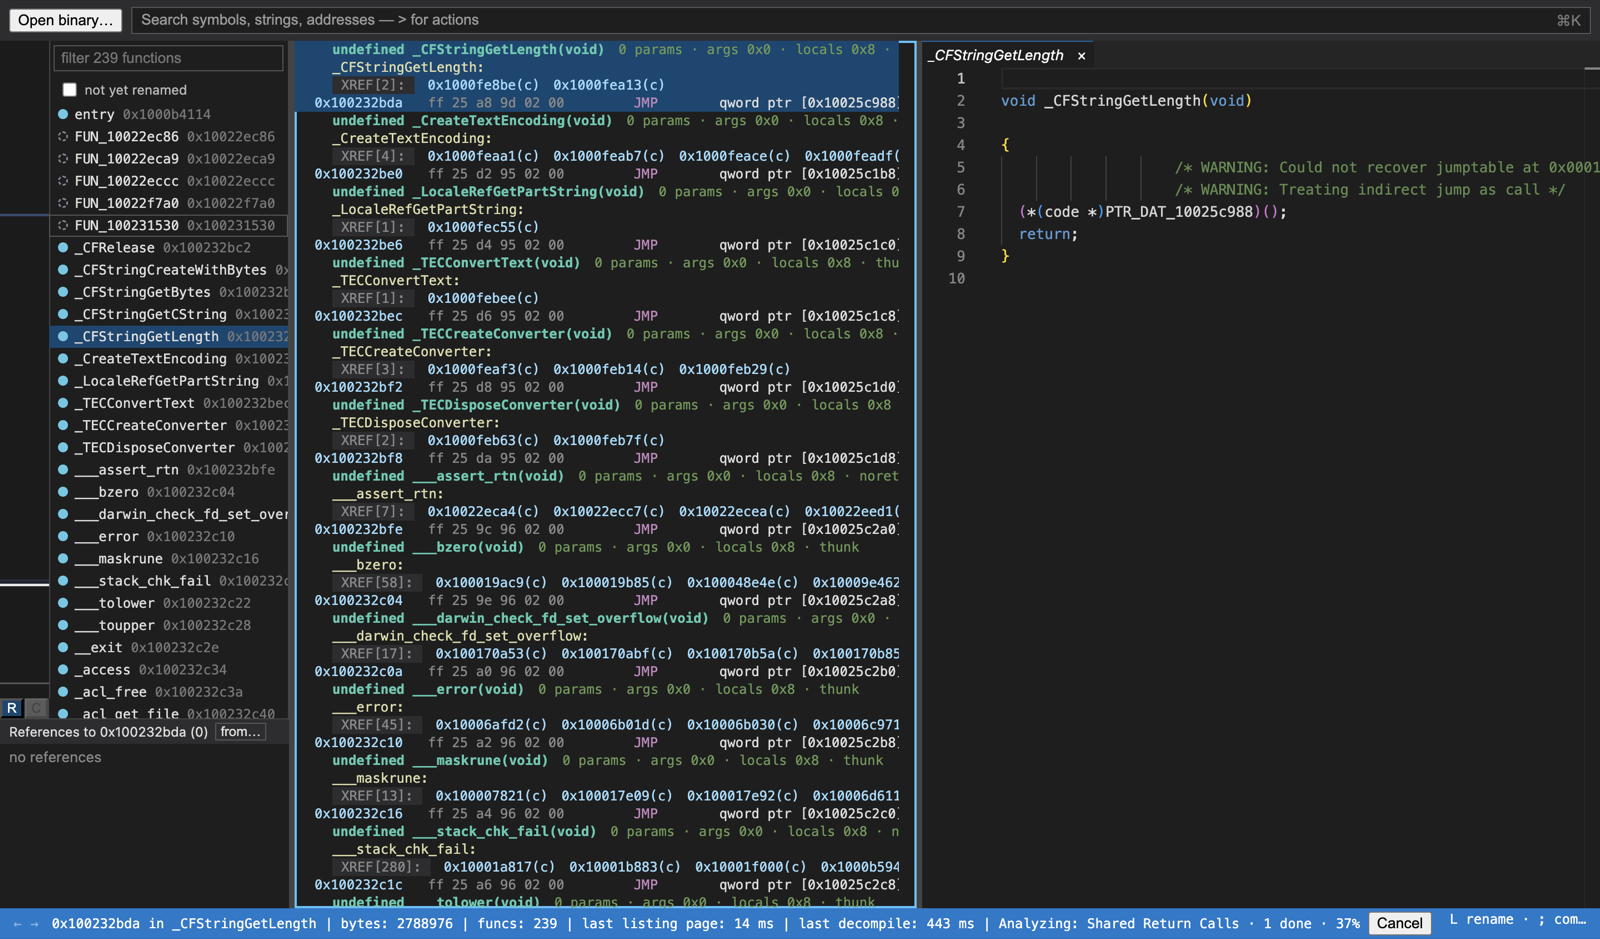
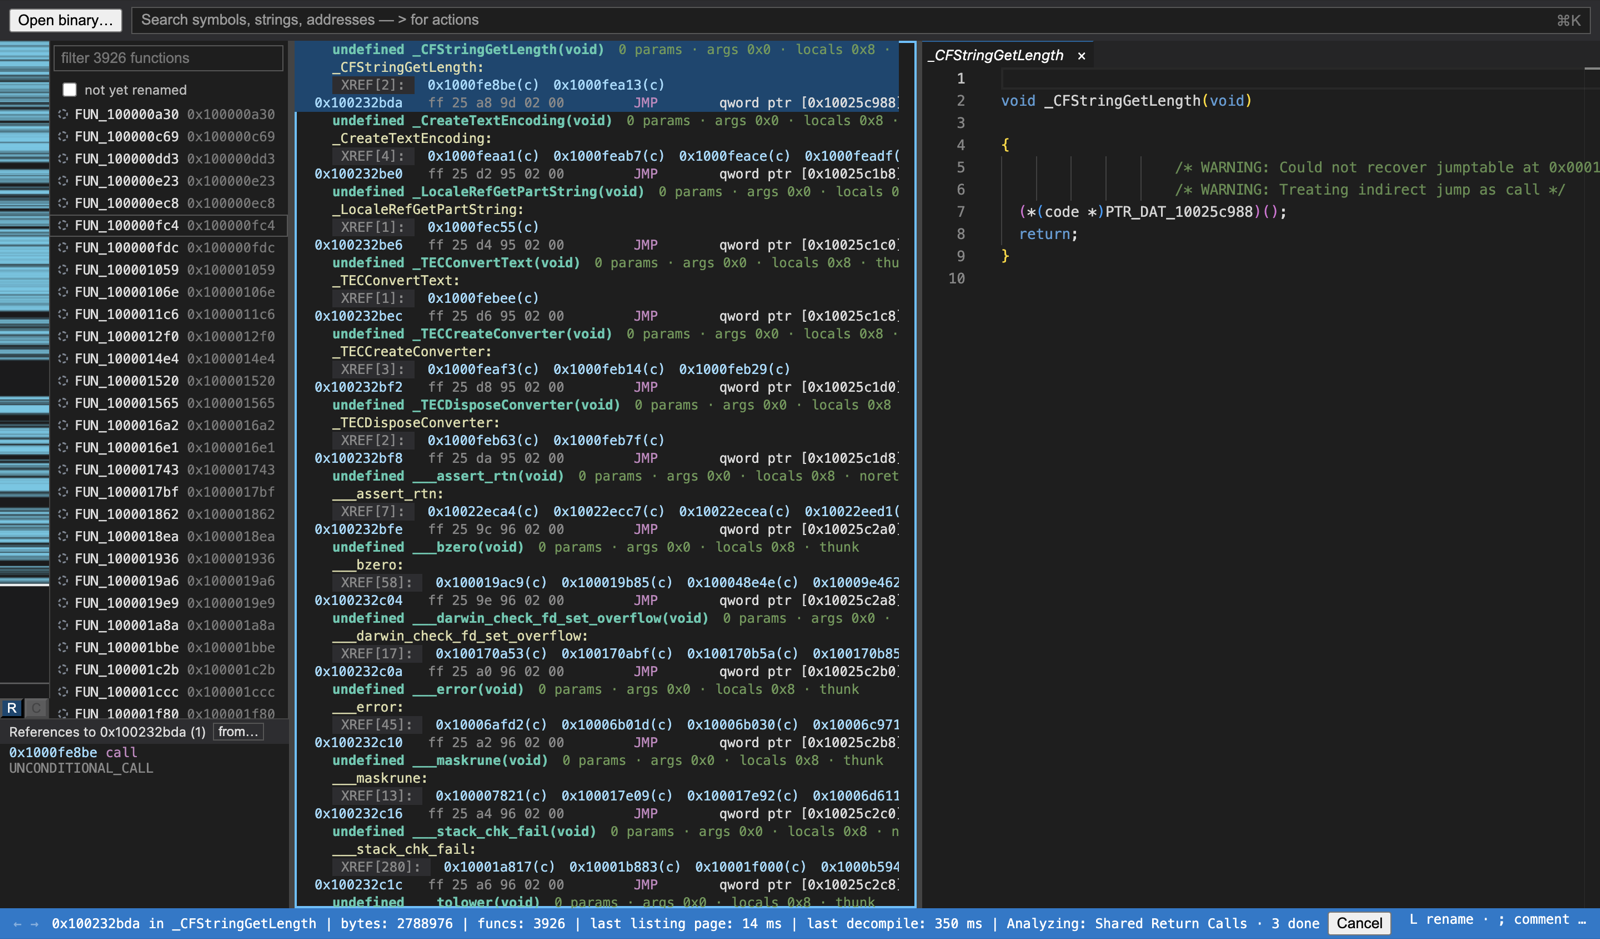
Retake all screenshots with the library-blue binary map; README and manual test mention it

Changed region(s): [[0.0, 0.0309, 0.1875, 0.8339], [0.3438, 0.9574, 1.0, 1.0], [0.125, 0.7721, 0.1562, 0.803]]

diff --git a/app/src/renderer/BinaryMap.tsx b/app/src/renderer/BinaryMap.tsx
@@ -44,7 +44,7 @@ export function BinaryMap({ map, funcs, here, covVersion, onGo }: { map: AddrMap
       <canvas ref={cv} />
       {tip && <div className="bmap-tip" style={{ top: tip.y }}>{tip.text}</div>}
     </div>
-    <div className="bmap-layers" role="group" aria-label="Map layers">{toggle("renamed", "Renamed", "off-white marks functions you named; blue is every function")}{toggle("coverage", "Coverage", "green = executed (in both runs when two are compared), orange-red = only one run (solid = A, hatched = B)", !coverage.shown)}</div>
+    <div className="bmap-layers" role="group" aria-label="Map layers">{toggle("renamed", "Renamed", "off-white marks functions you named; light blue is every function")}{toggle("coverage", "Coverage", "green = executed (in both runs when two are compared), orange-red = only one run (solid = A, hatched = B)", !coverage.shown)}</div>
     </div>
   );
 }

diff --git a/README.md b/README.md
@@ -36,10 +36,10 @@ One bar for jumping, searching and actions. Empty, it lists ranked leads (entry 
 ### Key hints and colours
 The right side of the status bar lists the keys that work in the view you are in, taken from the same table as the menu and the command bar and limited to what the provider can do: listing `L rename · ; comment · F function · T data · C clear · X refs · Space graph`; decompiler `L rename · ⌘L retype · ; comment · X refs · Space graph`; graphs `Space back · wheel zoom · drag pan · Fit · 1:1`; elsewhere `⌘K commands · ⌘G go to`. A long line is cut, hover it for the whole text.
 
-Colours always come with a shape, so nothing depends on colour alone. Who named a function (function list, call graph): off-white solid dot = named by you, amber ring = named by analysis (a guess), light-blue solid dot = from the file or a library signature, grey dashed ring = unnamed (`FUN_…`). Orange-red marks attention: code reached by only one coverage run. Green is the "both runs" tint.
+Colours always come with a shape, so nothing depends on colour alone. Who named a function (function list, call graph): off-white solid dot = named by you, amber ring = named by analysis (a guess), light-blue solid dot = from the file or a library signature, grey dashed ring = unnamed (`FUN_…`). Orange-red marks attention: code reached by only one coverage run. The binary map is the one place that uses the library blue for something else: it paints every function in it. Green is the "both runs" tint.
 
 ### Read: function list, binary map, listing, decompiler, references
-The function list filters by name; tick **not yet renamed** to see only functions nobody has named. The vertical binary map beside it shows the whole file; click or drag to go there, and toggle its layers with **R** (functions you named, off-white) and **C** (coverage); hovering a toggle says what its colours mean. The listing shows function headers, plate/pre/post/EOL/repeatable comments, all labels, `XREF[n]` annotations (click to follow) and folded structures and arrays (click the arrow or Left/Right), across all address spaces including overlays. The decompiler follows the cursor and opens one tab per function; click a call to go to the callee.
+The function list filters by name; tick **not yet renamed** to see only functions nobody has named. The vertical binary map beside it shows the whole file; click or drag to go there, and the map draws every function in light blue, and its layers toggle with **R** (functions you named, off-white) and **C** (coverage); hovering a toggle says what its colours mean. The listing shows function headers, plate/pre/post/EOL/repeatable comments, all labels, `XREF[n]` annotations (click to follow) and folded structures and arrays (click the arrow or Left/Right), across all address spaces including overlays. The decompiler follows the cursor and opens one tab per function; click a call to go to the callee.
 
 The panel under the function list shows the references to the cursor (calls, jumps, reads, writes, pointers, each with its function). `X` on a listing row or decompiler token (or Go > Show References To) pins it to that target, **Follow cursor** unpins it, and **from…** lists what the current instruction references. `X` on a decompiler temporary (`iVar1`) lists where it is written and read.
 

diff --git a/MANUAL_TEST.md b/MANUAL_TEST.md
@@ -66,6 +66,6 @@ Do not touch the mouse from step 4.1 on (except where noted).
 | 6.1 | Open `/bin/ls` and, while it is analysing for the first time (fresh projects dir), click Cancel in the progress dialog. | Dialog closes, the welcome pane shows "Open cancelled." (not an error). | ☐ | ☐ |
 | 6.2 | Start a second copy of the app against the same projects dir (`SIDECAR_PROJECTS_DIR=<same> npm start` in another terminal). | The second window's "Programs in this project" shows the red text `projects dir in use by another Ghidrette (<dir>)`. | ☐ | ☐ |
 | 6.3 | Open a program you opened before, rename its file, then choose it under File > Open Recent. | An error/notice "Could not open <path>". A failed open leaves the previously open program (and its unsaved edits) as it was; with none open you stay on the welcome pane. | ☐ | ☐ |
-| 6.4 | Open `/bin/ls`, click a listing row, then the decompiler, then press Space for the graph, then click the function list. Press `Cmd+K`, type `>`. | The status bar's right side changes with the focused view (listing: `L rename · ; comment · F function …`; decompiler: `… ⌘L retype …`; graph: `Space back · wheel zoom …`; function list: `⌘K commands · ⌘G go to`) and never wraps. The command bar shows `L` next to Rename and `⌘⇧G` next to Toggle Call Graph. Function list dots: off-white solid = named by you, amber ring = analysis, blue solid = imports, grey dashed ring = `FUN_…`. Graph edges: true solid, false dashed, loop-back dotted. | ☐ | ☐ |
+| 6.4 | Open `/bin/ls`, click a listing row, then the decompiler, then press Space for the graph, then click the function list. Press `Cmd+K`, type `>`. | The status bar's right side changes with the focused view (listing: `L rename · ; comment · F function …`; decompiler: `… ⌘L retype …`; graph: `Space back · wheel zoom …`; function list: `⌘K commands · ⌘G go to`) and never wraps. The command bar shows `L` next to Rename and `⌘⇧G` next to Toggle Call Graph. Function list dots: off-white solid = named by you, amber ring = analysis, blue solid = imports, grey dashed ring = `FUN_…`. Graph edges: true solid, false dashed, loop-back dotted. Binary map: functions light blue, renamed ones off-white. | ☐ | ☐ |
 
 ## Notes
